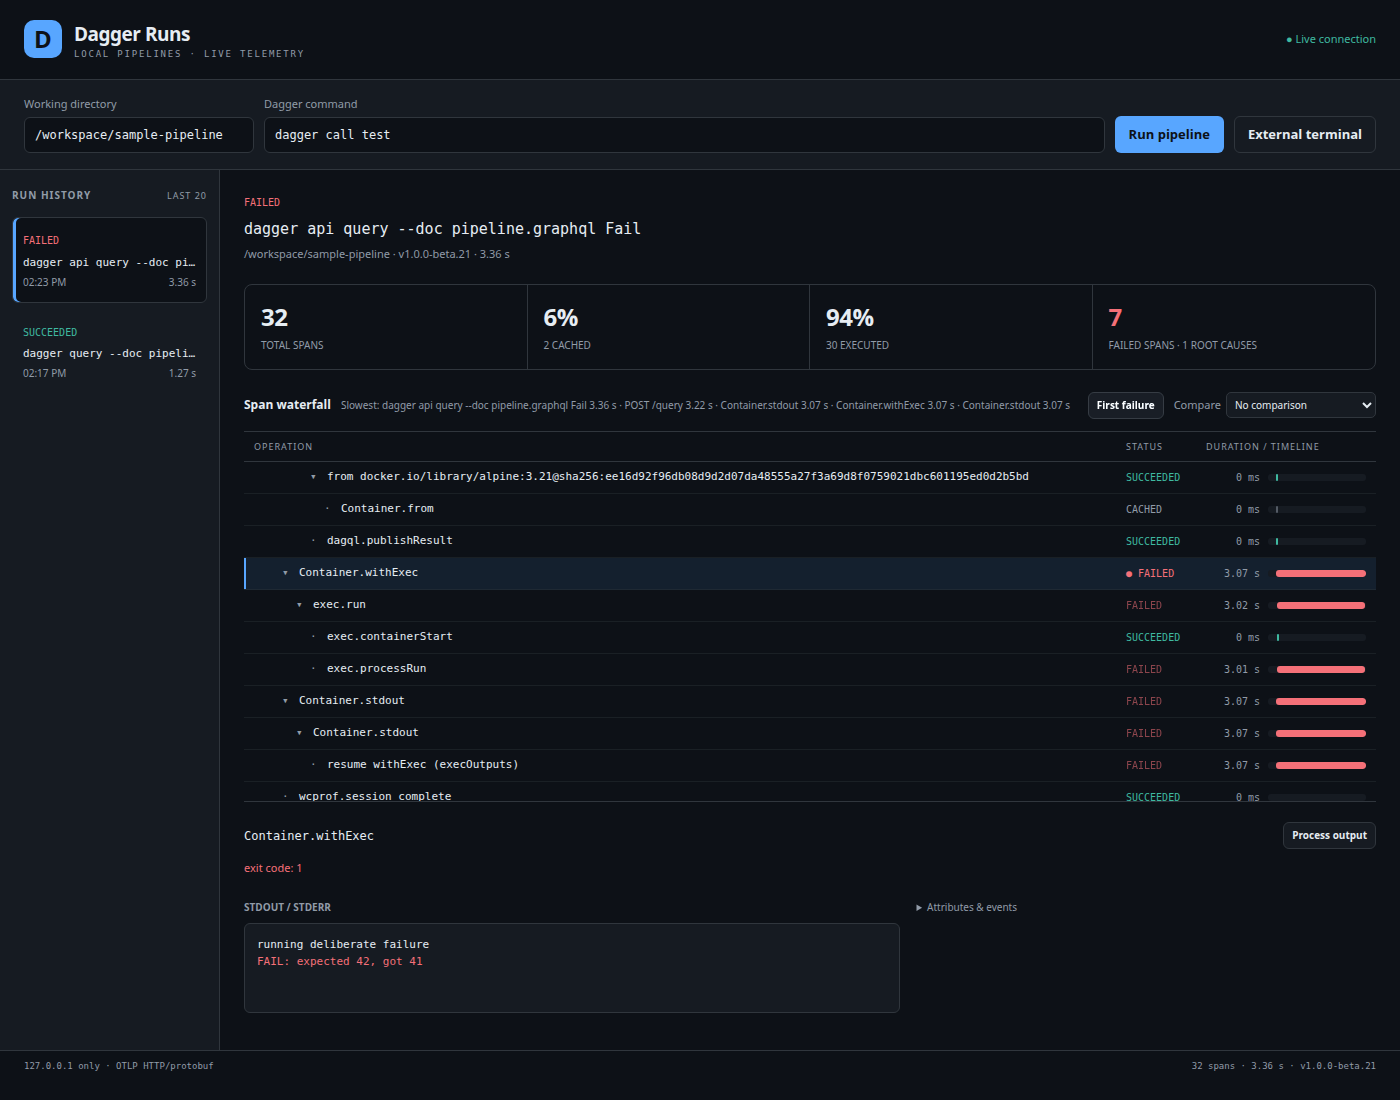
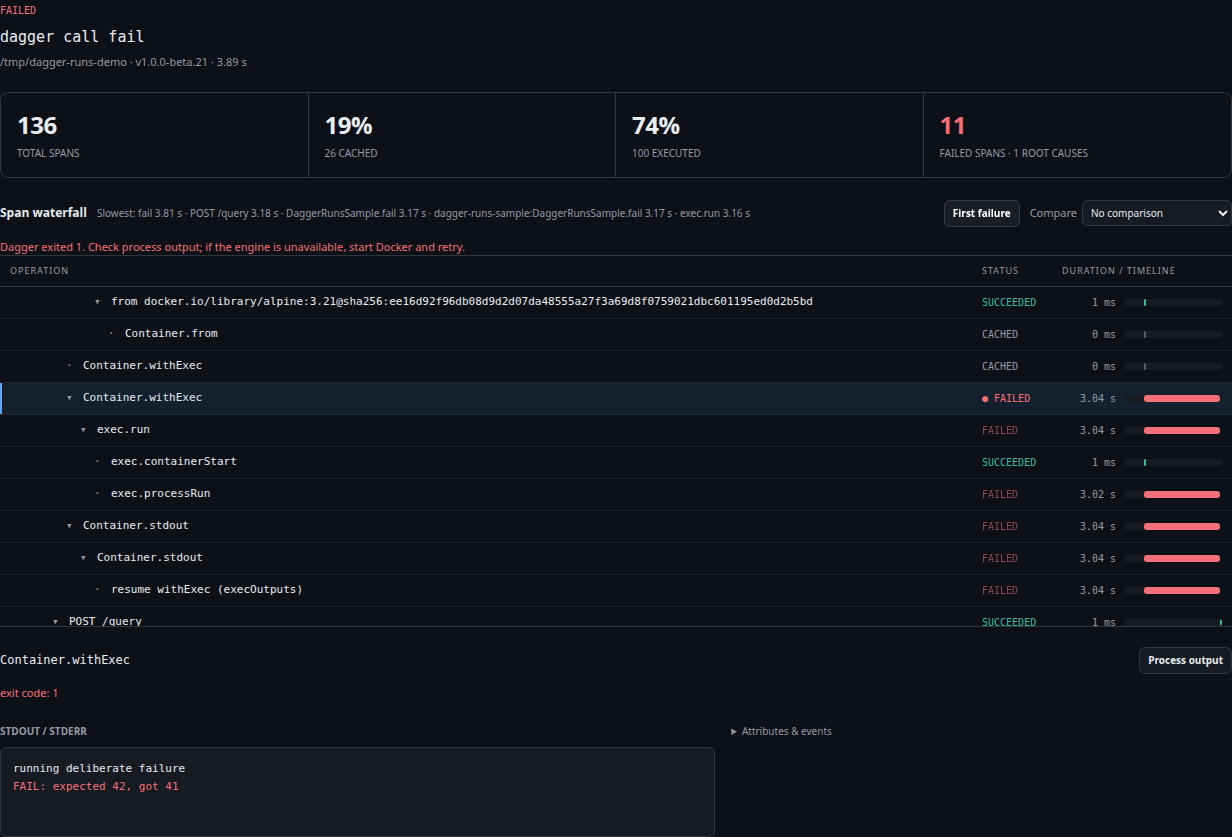
Document Dagger Runs with real cached and failing canvas screenshots
Capture the live sample in a generic temporary workspace, crop unrelated history, and explain cache metrics and root-cause logs. Record completed host acceptance checks.

diff --git a/extensions/dagger-runs/README.md b/extensions/dagger-runs/README.md
@@ -6,12 +6,26 @@ failures, persistent history, and duration comparison. No Dagger login, Cloud
 account, telemetry collector, frontend framework, or runtime dependency install
 is needed. The Copilot runtime supplies `@github/copilot-sdk`.
 
-![Completed failed Dagger run, automatically focused on its root-cause execution and stderr](screenshots/failed-run.png)
+## Canvas screenshots
 
-The screenshot is the real local renderer replaying a sanitized trace captured
-from Dagger v1.0.0-beta.21 over OTLP HTTP/protobuf, not a mock UI. The displayed
-working directory is anonymized. Host canvas loading is a separate check from
-this standalone renderer.
+These screenshots were captured from the actual running canvas after executing
+the sample Go module with Dagger **v1.0.0-beta.21**, exporting live OTLP
+HTTP/protobuf. They are not mockups or recorded-trace replays. The sample ran in
+`/tmp/dagger-runs-demo`; images are cropped to the run inspector to exclude
+unrelated history and personal launcher paths.
+
+![Successful Dagger sample test: 90 spans, 24 cached operations, zero failures, and a selected cached span in the nested waterfall](screenshots/cached-run.png)
+
+**Successful cached run.** Running `dagger call test` a second time exposes cache
+reuse alongside executed work: 24 of 90 spans are cached (27%), with no failures.
+Select any span to inspect its timing, attributes, and available output.
+
+![Intentional Dagger sample failure: nested execution waterfall focused on Container.withExec with running deliberate failure and FAIL expected 42 got 41 logs](screenshots/failed-run.png)
+
+**Root-cause failure.** `dagger call fail` intentionally exits nonzero. The
+inspector follows `error_origin` links to `Container.withExec`, distinguishes
+one root cause from propagated failures, and shows its stdout and ANSI-colored
+stderr inline.
 
 ## Install locally and open
 
@@ -323,7 +337,9 @@ input, and verify reserved `canvas.open` action rejection. This authoring
 environment did not expose `extensions_manage`/`extensions_reload`; the
 scaffold-equivalent implementation was explicitly approved, canonical bundled
 SDK docs/types were read, and local renderer/receiver checks are not claimed as
-those unavailable runtime RPC checks.
+those unavailable runtime RPC checks. A subsequent fresh-session host check
+verified discovery, opening, all eight actions, cache, root-cause logs,
+cancellation, invalid inputs, and reserved-action/security rejections.
 
 ## Limitations
 
@@ -338,7 +354,6 @@ by the extension. Windows cancellation is implemented but live verification
 was performed on Linux. A provider crash cannot reattach to an old process;
 history explicitly marks interruption instead.
 
-No extension-management tools were available in the authoring session, so
-host discovery/reload and `invoke_canvas_action` validation still require a
-capable host. No app modifications, public sharing, pushing or PR creation are
-part of this extension's installation.
+Extensions are discovered when a session starts; use a fresh session or a
+capable host's reload command after installation or provider changes.
+Installation does not modify the app or require public sharing.
